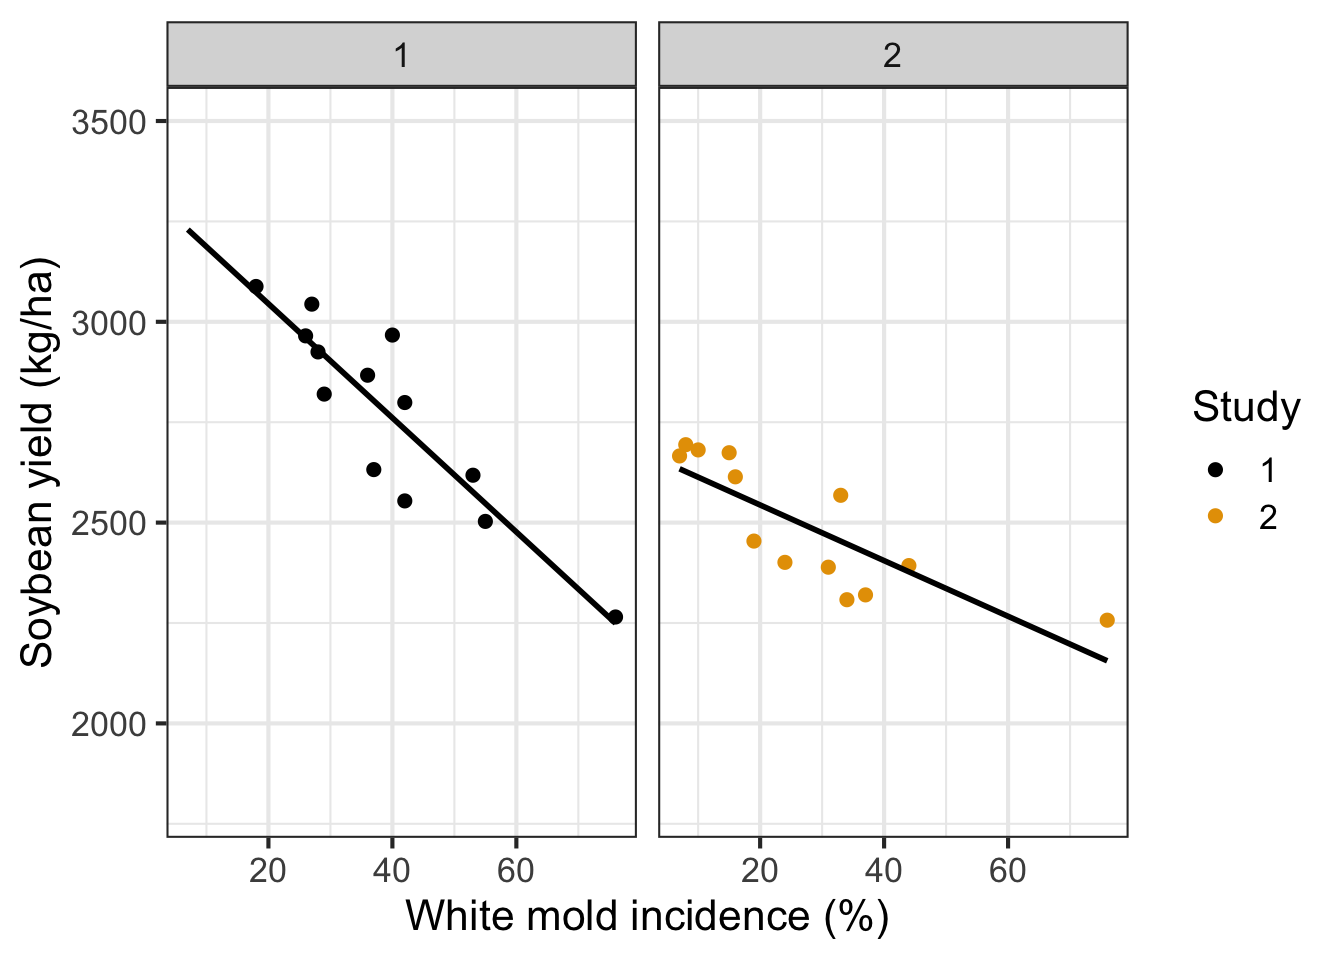
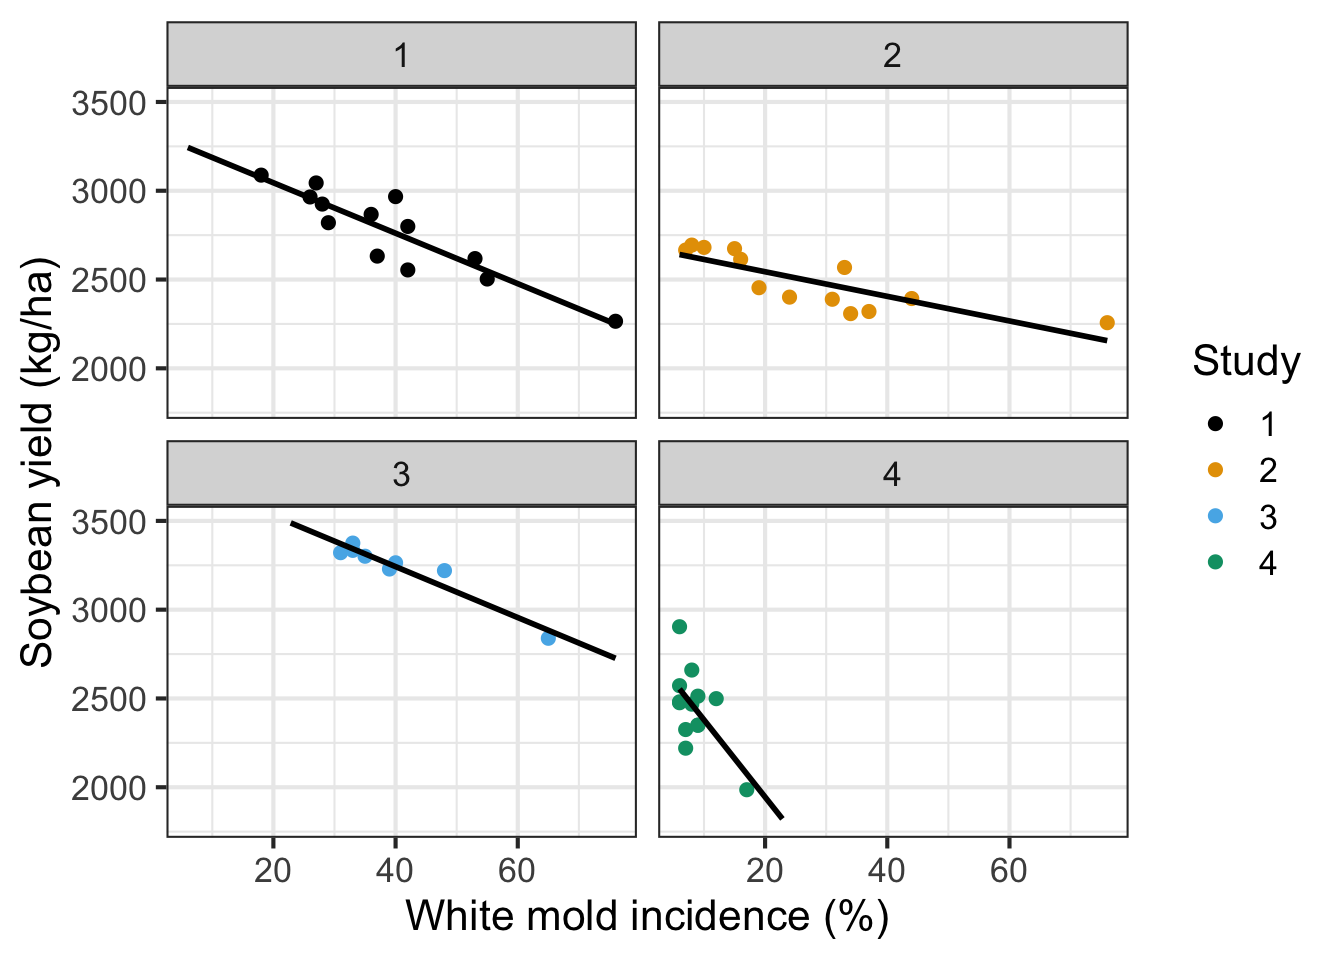
update yield loss text

diff --git a/_book/yieldloss-concepts.html b/_book/yieldloss-concepts.html
@@ -378,8 +378,12 @@ gtag('config', 'G-5T7SZYQV79', { 'anonymize_ip': true});
 </div>
 <section id="introduction" class="level2" data-number="16.1">
 <h2 data-number="16.1" class="anchored" data-anchor-id="introduction"><span class="header-section-number">16.1</span> Introduction</h2>
-<p>Plant disease epidemics can also be studied in regard to their potential to reduce crop yield (the measurable produce such as seed, fruit, leaves, roots or tubers) and quality (e.g.&nbsp;blemishes on fruit and toxins in grain) of the agricultural production. The yield of some crops that host the pathogen for long time may be reduced because its physiology is negatively affected in a dynamic way as the crop grows (biomass increase) and develops (advances the phenological stages). For some diseases that primarily infect the product (e.g.&nbsp;grains), yield is directly as affected with the reduction in size and weight of the affected plant part. There are cases of diseases causing visual damages on the product (e.g.&nbsp;fruit, tuber) that do no result in yield reduction, but the presence of the symptoms may reduce sales. Another example is the presence of toxins that downgrade product value.</p>
-<p>Losses can be classified as direct (on the farm) or indirect (on the society) (<a href="#fig-losses">Figure&nbsp;<span>16.1</span></a>). Costs on farm that are due to reduction in quantity an quality of yield and control costs are classified as primary. Other consequences of the epidemics such as the build-up of inoculum in soil and the reduced efficacy of control due to surge of resistance to chemicals in the pathogen population over the years are examples of secondary losses on farm.</p>
+<p>Plant disease epidemics significantly impact agricultural production, particularly affecting crop yield - the measurable produce such as seed, fruit, leaves, roots or tubers - and quality, which includes factors such as blemishes on fruit and toxins in grain. Studying these impacts is crucial to understanding the overall repercussions of plant diseases on agriculture.</p>
+<p>The yield of some crops can be severely diminished if they host a pathogen for a prolonged period of time. The plant’s physiology is dynamically and negatively affected as the crop grows, leading to an increase in biomass and advancement through phenological stages. For some diseases that primarily infect the end product, like grains, yield is directly impacted with a reduction in size and weight of the affected plant part.</p>
+<p>Certain plant diseases cause visual damage to the product, such as fruit or tubers, which may not result in a reduction in yield, but the presence of the symptoms can adversely affect sales due to decreased marketability. Furthermore, the presence of toxins in the product caused by some diseases can significantly downgrade its value, posing both health risks and economic losses.</p>
+<p>Losses due to plant diseases can be categorized as direct, affecting the farm itself, or indirect, having broader impacts on society. Direct losses on the farm due to plant diseases are primarily due to reductions in the quantity and quality of yield, as well as the costs associated with disease control. These are classified as primary losses.</p>
+<p>Secondary losses on the farm are indirect consequences of disease epidemics, such as the buildup of inoculum in the soil, which can lead to subsequent disease outbreaks. Other secondary impacts include the reduced efficacy of disease control methods due to the emergence of resistance to chemicals within the pathogen population over time.</p>
+<p>In addition to these on-farm losses, plant diseases can have significant indirect impacts on society. These can include increased food prices due to reduced supply, loss of export markets due to trade restrictions, and environmental damage due to increased use of pesticides. Understanding the full spectrum of losses caused by plant diseases is critical for developing effective disease management strategies and policies.</p>
 <div id="fig-losses" class="quarto-figure quarto-figure-center anchored">
 <figure class="figure">
 <p><img src="imgs/loss_diagram.png" class="quarto-discovered-preview-image img-fluid figure-img" alt="Tipology of losses caused by plant diseases" width="573"></p>
@@ -443,15 +447,18 @@ gtag('config', 'G-5T7SZYQV79', { 'anonymize_ip': true});
 </section>
 <section id="diseaseyield-data-and-graphs" class="level2" data-number="16.3">
 <h2 data-number="16.3" class="anchored" data-anchor-id="diseaseyield-data-and-graphs"><span class="header-section-number">16.3</span> Disease:yield data and graphs</h2>
-<p>The datasets used to characterize a disease:yield relationship should ideally have a wide range of values of yield and disease. Two different approaches have been used to obtain such data: 1) experimentation conducted in the field or greenhouse; or 2) from surveys in naturally infected commercial fields.</p>
-<p>In experiments, the researcher rely on different treatments that will result in different epidemics - assuming that the disease affects yield. These treatments include mainly the use of inoculations of varying inoculum levels (when disease is expected to be low) and application of fungicides at varying rate, number or timing (when disease is expected to be high) Alternatively, one can use different host genotypes (preferably isolines or near isolines) with varying susceptibility or manipulate the environment (e.g.&nbsp;irrigation).</p>
-<p>Whatever the case, the relationship between a measure of yield (in absolute or relative terms) and disease variable can be appraised using scatter plots that depict a “damage curve” <span class="citation" data-cites="chapter2017a">(<a href="references.html#ref-chapter2017a" role="doc-biblioref">Madden et al. 2017</a>)</span>. The disease variable most commonly represent the assessment of disease at a single time (critical point). Sometimes, the data obtained from multiple assessments during the epidemics is used to calculate the area under the disease progress curve that is used to represent disease variable.</p>
-<p>Let’s work with actual data on the incidence of white mold disease and yield of soybean determined across different locations and years in Brazil <span class="citation" data-cites="lehner2016">(<a href="references.html#ref-lehner2016" role="doc-biblioref">Lehner et al. 2016</a>)</span>. The variation in disease and yield was obtained by applying different fungicides that varied in efficacy, thus resulting in variable final disease incidence. The data was made freely available in this <a href="https://github.com/emdelponte/paper-white-mold-meta-analysis" title="link">repository</a>.</p>
-<div class="cell" data-hash="yieldloss-concepts_cache/html/unnamed-chunk-2_93cd244746ff50017bd2f1f11651ef10">
+<p>The datasets utilized to characterize a disease-yield relationship should ideally encompass a broad spectrum of yield and disease values. There are primarily two approaches to acquiring such data: 1) conducting experiments in controlled environments such as fields or greenhouses; or 2) conducting surveys in commercial fields that are naturally infected.</p>
+<p>In experimental setups, researchers rely on different treatments that are designed to result in varying disease epidemics, under the assumption that the disease has an impact on yield. These treatments often include manipulating the level of inoculum when the disease is expected to be minimal. This is achieved through inoculations with different amounts of the pathogen. Conversely, when the disease is expected to be severe, researchers might use fungicides at different rates, frequencies, or timings.</p>
+<p>An alternative strategy is to use different host genotypes, preferably isolines or near-isolines, which exhibit varying degrees of susceptibility to the disease. Another method is to manipulate the environment, for example by altering the irrigation levels.</p>
+<p>In any case, the relationship between a measure of yield (either absolute or relative) and the disease variable can be evaluated using scatter plots that depict a “damage curve” <span class="citation" data-cites="chapter2017a">(<a href="references.html#ref-chapter2017a" role="doc-biblioref">Madden et al. 2017</a>)</span>. The disease variable most commonly represents the assessment of the disease at a singular critical point. However, sometimes data obtained from multiple assessments throughout the disease epidemic is used to calculate the area under the disease progress curve, which is then used to represent the disease variable. This offers a more comprehensive view of the disease’s impact over time, and can better capture the complex relationships between disease progression and yield loss.</p>
+<p>Let’s work with actual data on the incidence of white mold disease and yield of soybean determined across different locations and years in Brazil <span class="citation" data-cites="lehner2016">(<a href="references.html#ref-lehner2016" role="doc-biblioref">Lehner et al. 2016</a>)</span>. The variation in disease and yield was obtained by applying different fungicides that varied in efficacy, thus resulting in variable final disease incidence. The data was made freely available in this <a href="https://github.com/emdelponte/paper-white-mold-meta-analysis" title="link">repository</a> and was included the the package that accompanies the book.</p>
+<div class="cell" data-hash="yieldloss-concepts_cache/html/unnamed-chunk-2_0b39da9e057f38dbf13714f053250ca0">
 <div class="sourceCode cell-code" id="cb2"><pre class="sourceCode r code-with-copy"><code class="sourceCode r"><span id="cb2-1"><a href="#cb2-1" aria-hidden="true" tabindex="-1"></a><span class="fu">library</span>(tidyverse)</span>
 <span id="cb2-2"><a href="#cb2-2" aria-hidden="true" tabindex="-1"></a><span class="fu">theme_set</span>(<span class="fu">theme_bw</span>(<span class="at">base_size =</span> <span class="dv">16</span>))</span>
-<span id="cb2-3"><a href="#cb2-3" aria-hidden="true" tabindex="-1"></a>wm <span class="ot">&lt;-</span> <span class="fu">read_csv</span>(<span class="st">"https://raw.githubusercontent.com/emdelponte/paper-white-mold-meta-analysis/gh-pages/dat-white-mold-br.csv"</span>)</span>
-<span id="cb2-4"><a href="#cb2-4" aria-hidden="true" tabindex="-1"></a><span class="fu">glimpse</span>(wm)</span></code><button title="Copy to Clipboard" class="code-copy-button"><i class="bi"></i></button></pre></div>
+<span id="cb2-3"><a href="#cb2-3" aria-hidden="true" tabindex="-1"></a><span class="fu">library</span>(r4pde)</span>
+<span id="cb2-4"><a href="#cb2-4" aria-hidden="true" tabindex="-1"></a>wm <span class="ot">&lt;-</span> WhiteMoldSoybean</span>
+<span id="cb2-5"><a href="#cb2-5" aria-hidden="true" tabindex="-1"></a></span>
+<span id="cb2-6"><a href="#cb2-6" aria-hidden="true" tabindex="-1"></a><span class="fu">glimpse</span>(wm)</span></code><button title="Copy to Clipboard" class="code-copy-button"><i class="bi"></i></button></pre></div>
 <div class="cell-output cell-output-stdout">
 <pre><code>Rows: 382
 Columns: 17
@@ -474,14 +481,14 @@ $ scl             &lt;dbl&gt; 5092, 6154, 200, 180, 1123, 641, 1203, 521, 20, 0,
 $ yld             &lt;dbl&gt; 3729, 3739, 3863, 3904, 4471, 4313, 4177, 4001, 4090, …</code></pre>
 </div>
 </div>
-<p>As seen above using <code>glimpse()</code> function, the full data set has 17 variables. Let’s reduce the data set to a few variables (study, inc and yld) and the trials number 1 and 2.</p>
-<div class="cell" data-hash="yieldloss-concepts_cache/html/unnamed-chunk-3_eb6d64835fedf68c5f5d80b5cac7816b">
+<p>As seen above using <code>glimpse()</code> function, the full data set has 17 variables. Let’s reduce the data set to a few variables (study, inc and yld) and the trials number 1 to 4.</p>
+<div class="cell" data-hash="yieldloss-concepts_cache/html/unnamed-chunk-3_fc686ecac42f483ddb6d012952b5a554">
 <div class="sourceCode cell-code" id="cb4"><pre class="sourceCode r code-with-copy"><code class="sourceCode r"><span id="cb4-1"><a href="#cb4-1" aria-hidden="true" tabindex="-1"></a>wm2 <span class="ot">&lt;-</span> wm <span class="sc">|&gt;</span> </span>
 <span id="cb4-2"><a href="#cb4-2" aria-hidden="true" tabindex="-1"></a>  <span class="fu">select</span>(study, inc, yld) <span class="sc">|&gt;</span> </span>
-<span id="cb4-3"><a href="#cb4-3" aria-hidden="true" tabindex="-1"></a>  <span class="fu">filter</span>(study <span class="sc">%in%</span> <span class="fu">c</span>(<span class="dv">1</span>,<span class="dv">2</span>)) </span>
+<span id="cb4-3"><a href="#cb4-3" aria-hidden="true" tabindex="-1"></a>  <span class="fu">filter</span>(study <span class="sc">%in%</span> <span class="fu">c</span>(<span class="dv">1</span>,<span class="dv">2</span>, <span class="dv">3</span>, <span class="dv">4</span>)) </span>
 <span id="cb4-4"><a href="#cb4-4" aria-hidden="true" tabindex="-1"></a>wm2</span></code><button title="Copy to Clipboard" class="code-copy-button"><i class="bi"></i></button></pre></div>
 <div class="cell-output cell-output-stdout">
-<pre><code># A tibble: 26 × 3
+<pre><code># A tibble: 52 × 3
    study   inc   yld
    &lt;dbl&gt; &lt;dbl&gt; &lt;dbl&gt;
  1     1    76  2265
@@ -494,11 +501,11 @@ $ yld             &lt;dbl&gt; 3729, 3739, 3863, 3904, 4471, 4313, 4177, 4001, 40
  8     1    40  2967
  9     1    26  2965
 10     1    18  3088
-# … with 16 more rows</code></pre>
+# ℹ 42 more rows</code></pre>
 </div>
 </div>
 <p>We can now produce the damage curves for each study. As it can be seen, the relationship can be adequately described by a straight line.</p>
-<div class="cell" data-hash="yieldloss-concepts_cache/html/fig-damagecurve1_de6b364b2ce7f3e7db76a93e6f7d3aca">
+<div class="cell" data-hash="yieldloss-concepts_cache/html/fig-damagecurve1_f3ec70b8deb341899e206e7700a00cc5">
 <div class="sourceCode cell-code" id="cb6"><pre class="sourceCode r code-with-copy"><code class="sourceCode r"><span id="cb6-1"><a href="#cb6-1" aria-hidden="true" tabindex="-1"></a>wm2 <span class="sc">|&gt;</span> </span>
 <span id="cb6-2"><a href="#cb6-2" aria-hidden="true" tabindex="-1"></a>  <span class="fu">ggplot</span>(<span class="fu">aes</span>(inc, yld, </span>
 <span id="cb6-3"><a href="#cb6-3" aria-hidden="true" tabindex="-1"></a>             <span class="at">group =</span> study, </span>
